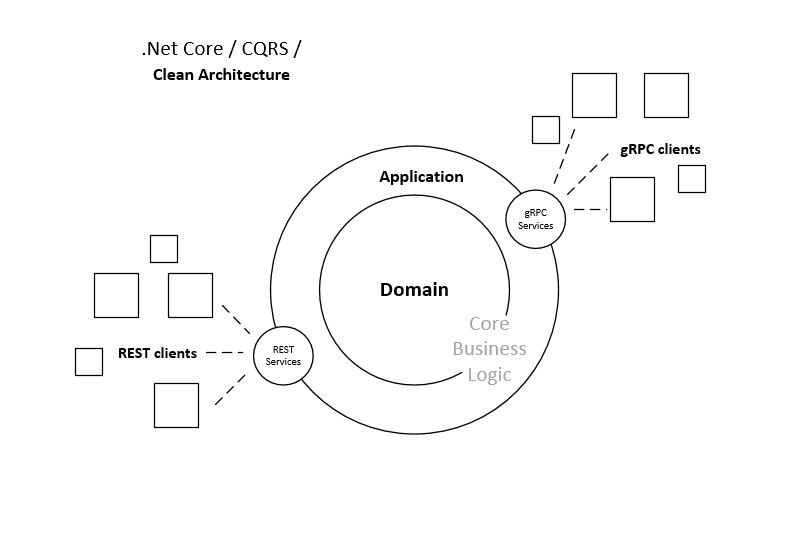
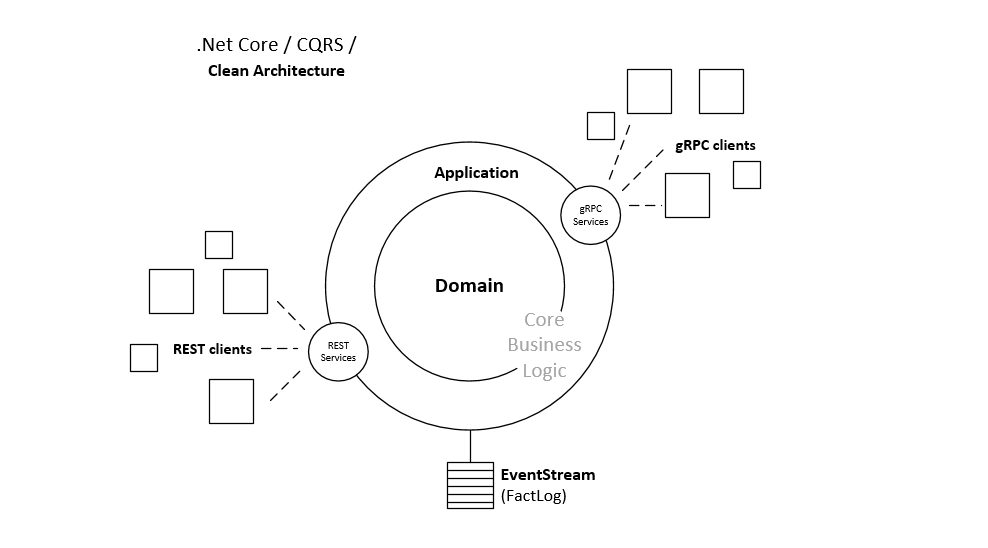
Added MediatR details

diff --git a/CoreServices/Core.Services/Startup.cs b/CoreServices/Core.Services/Startup.cs
@@ -32,7 +32,7 @@ namespace Core.Services
         // This method gets called by the runtime. Use this method to add services to the container.
         public void ConfigureServices(IServiceCollection services)
         {
-            #region Create our dependancies
+            #region Create our custom dependancies
 
             #region Initialize our ICoreConfiguration object
 
@@ -49,7 +49,9 @@ namespace Core.Services
 
             #endregion
 
-            // Register default WebAPI dependancies (ServiceCollection is our DI container)
+            #region Register our dependencies
+
+            // Register default WebAPI dependancies
             services.AddMvc()
                 .SetCompatibilityVersion(CompatibilityVersion.Version_2_2)
                 .AddJsonOptions(options =>
@@ -63,6 +65,8 @@ namespace Core.Services
             services.AddSingleton<IConfiguration>(Configuration);
             services.AddSingleton<ICoreConfiguration>(coreConfiguration);
             services.AddSingleton<ICoreLogger>(coreLogger);
+
+            #endregion
 
             #endregion
 

diff --git a/CoreServices/Core/Core.Application/Account/Commands/CreateAccountCommand.cs b/CoreServices/Core/Core.Application/Account/Commands/CreateAccountCommand.cs
@@ -11,16 +11,6 @@ namespace Core.Application.Account.Commands
 {
     public class CreateAccountCommand : IRequest<AccountModel>
     {
-        /*
-        readonly ICoreConfiguration coreConfiguration;
-        readonly ICoreLogger coreLogger;
-
-        public CreateAccountCommand(IServiceProvider serviceProvider)
-        {
-            coreConfiguration = serviceProvider.GetService<ICoreConfiguration>();
-            coreLogger = serviceProvider.GetService<ICoreLogger>();
-        }*/
-
         public string AccountName { get; set; }
         public string FirstName { get; set; }
         public string LastName { get; set; }

diff --git a/CoreServices/Core/Core.Application/Account/Queries/GetAccountsListQuery.cs b/CoreServices/Core/Core.Application/Account/Queries/GetAccountsListQuery.cs
@@ -8,11 +8,11 @@ namespace Core.Application.Account.Queries
 {
     public class GetAccountsListQuery
     {
-        readonly ICoreConfiguration coreConfiguration;
+        readonly ICoreConfiguration _coreConfiguration;
 
-        public GetAccountsListQuery(IServiceProvider serviceProvider)
+        public GetAccountsListQuery(ICoreConfiguration coreConfiguration)
         {
-            coreConfiguration = serviceProvider.GetService<ICoreConfiguration>();
+            _coreConfiguration = coreConfiguration;
         }
 
         public string GetAccountsListQueryName()

diff --git a/CoreServices/Core/Core.Application/Account/Commands/Validators/AccountValidator.cs b/CoreServices/Core/Core.Application/Account/Commands/Validators/AccountValidator.cs
@@ -4,7 +4,7 @@ using System;
 using System.Collections.Generic;
 using System.Text;
 
-namespace Core.Application.Account.Validators
+namespace Core.Application.Account.Commands.Validators
 {
     public class AccountValidator : AbstractValidator<AccountInsertModel>
     {

diff --git a/README.md b/README.md
@@ -18,8 +18,12 @@ Centralized business logic. Visual Studio Solution Project. Deployable to Linux 
 # WebClients
 UI client(s) that connect to CoreServices via REST API. Visual Studio Code projects.
 
+**Note:** It is recommened that you break WebClients out into seperate repositiores and build systems so they can be managed seperatly and connect to various enviornments that CoreServices is running on.
+
 # TaskClients
 Background tasks hosted as workers that connect to CoreServices via gRPC. Visual Studio Code projects.
+
+**Note:** It is recommened that you break TaskClients out into seperate repositiores and build systems so they can be managed seperatly and connect to various enviornments that CoreServices is running on.
 
 ## Core.Services
 Main entry point. Headless implementation allows you to swap out interfaces between Consoles, Tests, WebApi's and WebApps. Includes Core.Common, Core.Application and Core.Domain Projects and wraps them into a gateway for access by the clients.
@@ -28,15 +32,49 @@ DependecyInjection is handled by default .Net Core ServiceProvider. Console and 
 
 More details can be found in the [ReadMe](CoreServices/README.md) doc for the CoreServices solution.
 
- 
-### CQRS and Event Sourcing
-The Command Query Responsibility Segregation pattern is used for all access to Core. The [MediatR](https://www.nuget.org/packages/MediatR) Nuget package is used for in-process messaging. Event Sourcing is logged into Azure Table Storage via ICoreEventLogger interface.
+**Note:** You may choose to develop a more UI centric entry point (Such as a Razor Pages project) in some instances of CoreServices in order to facilitate an admin portal. This removes the need to build out a seperate web client that needs to autheticate to a REST API for certain scenarios where it makes sense. You may still choose to deploy a seperate set of CoreServices for acces by other clients with only REST endpoints in place. These other instances could be focused on only reads, or may only allow a certain subset of commands to run.
 
-The command pattern along with event sourcing allows us to roll back to any state of our application.
+ 
+### CQRS Pattern and Event Sourcing
+The Command Query Responsibility Segregation pattern is used for all access to Core. The [MediatR](https://www.nuget.org/packages/MediatR) Nuget package is used for in-process messaging.
+
+Event Sourcing is not fully implemented and allows you to develop using your Event Store of choice such as: EventStore, StreamStone or your own custom solution.
+
+**Note:** Current implementation uses document storage and does not fully segregate writes from reads at the persistence layer - only within the application layer. When implementing event sourcing you will want to seperate your event store (writes) from your snapshots and projections (reads) as shown here:
+![CQRS-Reads-Writes](https://github.com/INNVTV/NetCore-Clean-Architecture/blob/master/_docs/imgs/cqrs-reads-writes.png)
+
+When fully implemented the CQRS Pattern along with Event Sourcing allows us to roll back to any state of our application and build up projections and aggregates of any kind from our events.
+
+For more on Event Sourcing: https://martinfowler.com/bliki/CQRS.html
 
 For more on the CQRS pattern: https://martinfowler.com/bliki/CQRS.html
 
 ![CQRS](https://github.com/INNVTV/NetCore-Clean-Architecture/blob/master/_docs/imgs/cqrs.png)
+
+### MediatR
+MediatR allows us to easily create send Command and Query objects to the correct Handlers:
+
+![MediatR](https://github.com/INNVTV/NetCore-Clean-Architecture/blob/master/_docs/imgs/mediatr.png)
+
+Here is a typical file structure
+
+**Commands:** Commands include properties we expect to have passed in to run the command. They take the place of models that would normally be passed into a function. 
+
+[Command Class]
+
+[Handler Class]
+
+**Queries:**  Similar to Commands, Query objects include properties that the handler will expect to work with when being run.
+
+
+[Query Class]
+
+[Handler Class]
+
+**Note:** When added to your Dependency Injection Container MediatR will automatically search your assemblies for **IRequest** and **IRequestHandler** implementations and will build up your library of commands and quries for use throught your project.
+
+
+**Optimaization:** Seperating Commands from Queries allows you to optimize how you access your data store between each access type. You may also choose to have different data stores for reads vs writes. Perhaps Reads will ALWAYS hit a Redis Cache or Search Provider and part of the responsibility of Writes are to ensure these are kept up to date. You may use the same ata store but opt for Entity Framework for your Reads and ADO.NET for your Writes. Or you can go full Event Sourced and build up snapshots, projections and aggregates from your Event Store.
 
 ### ViewModels
 View models that are returned from Query methods will include UI related values such as "EditEnabled" and "DeleteEnabled"
